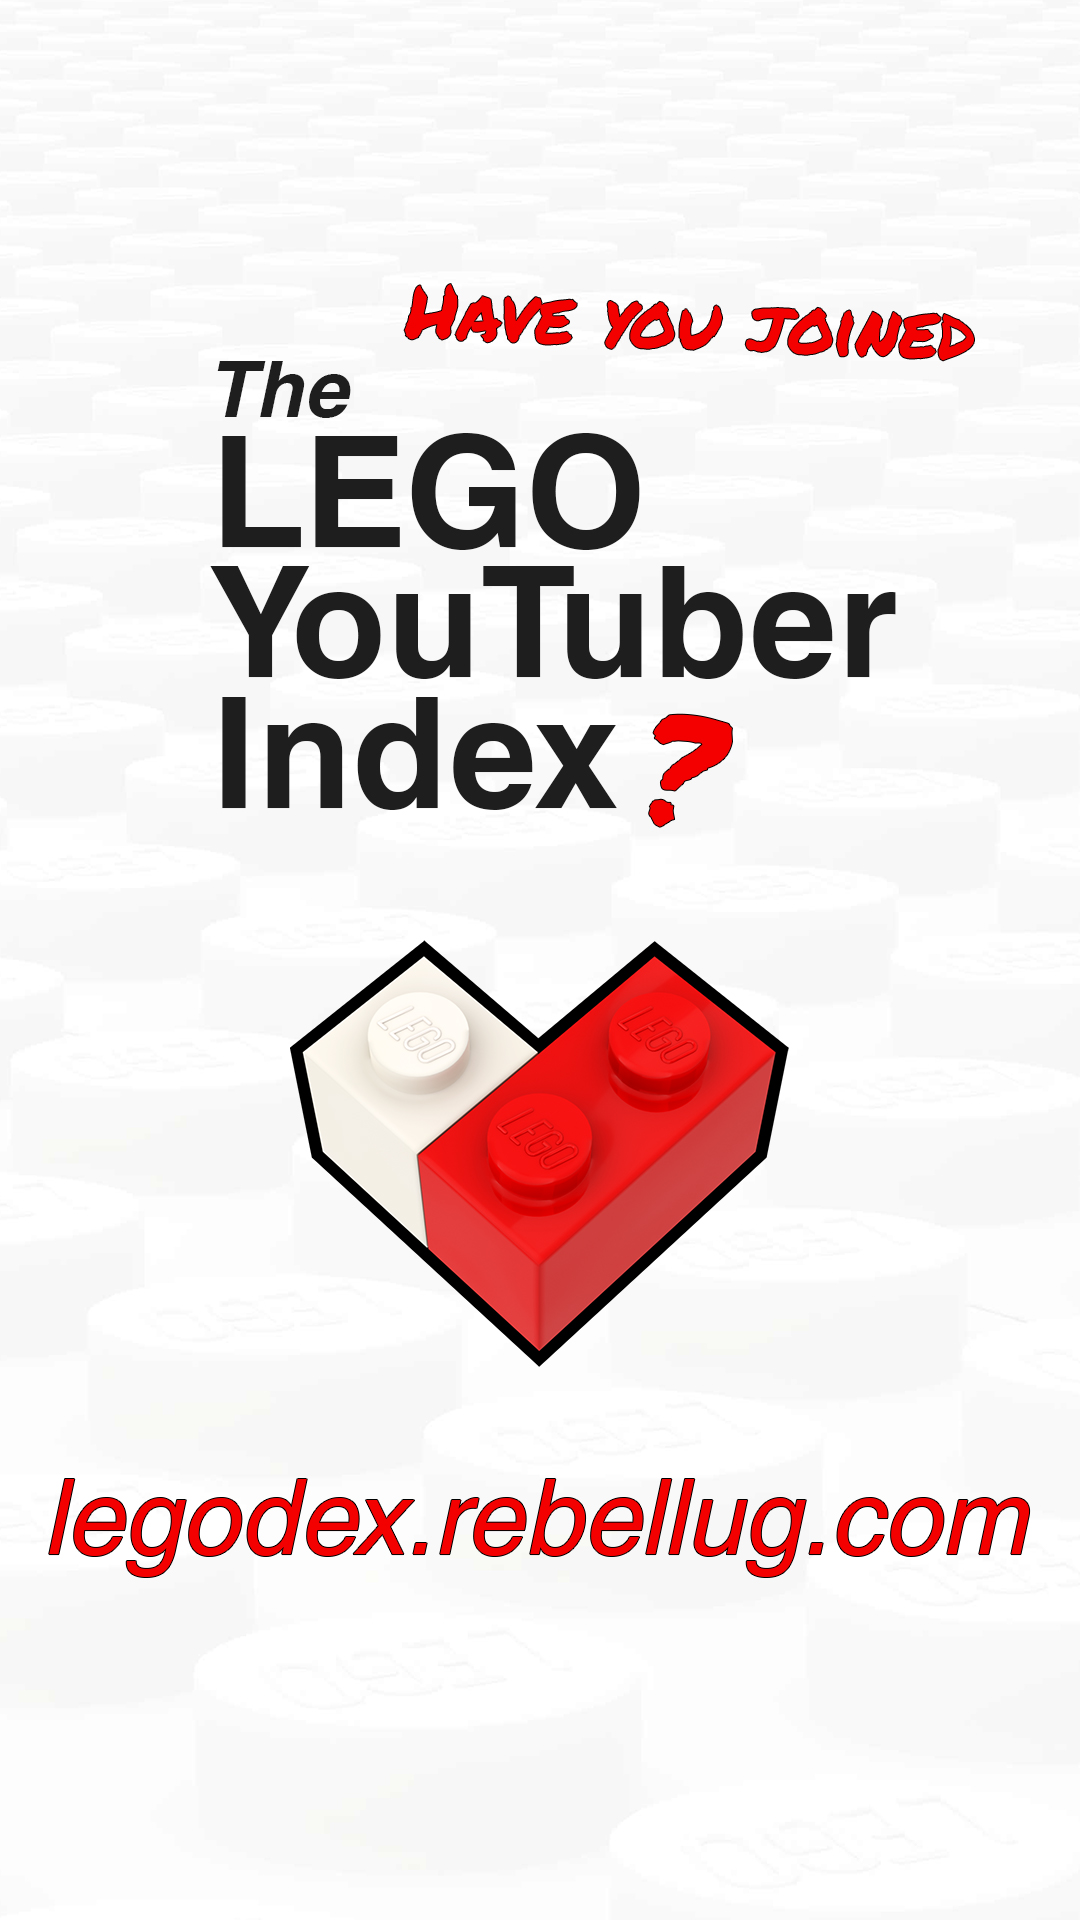
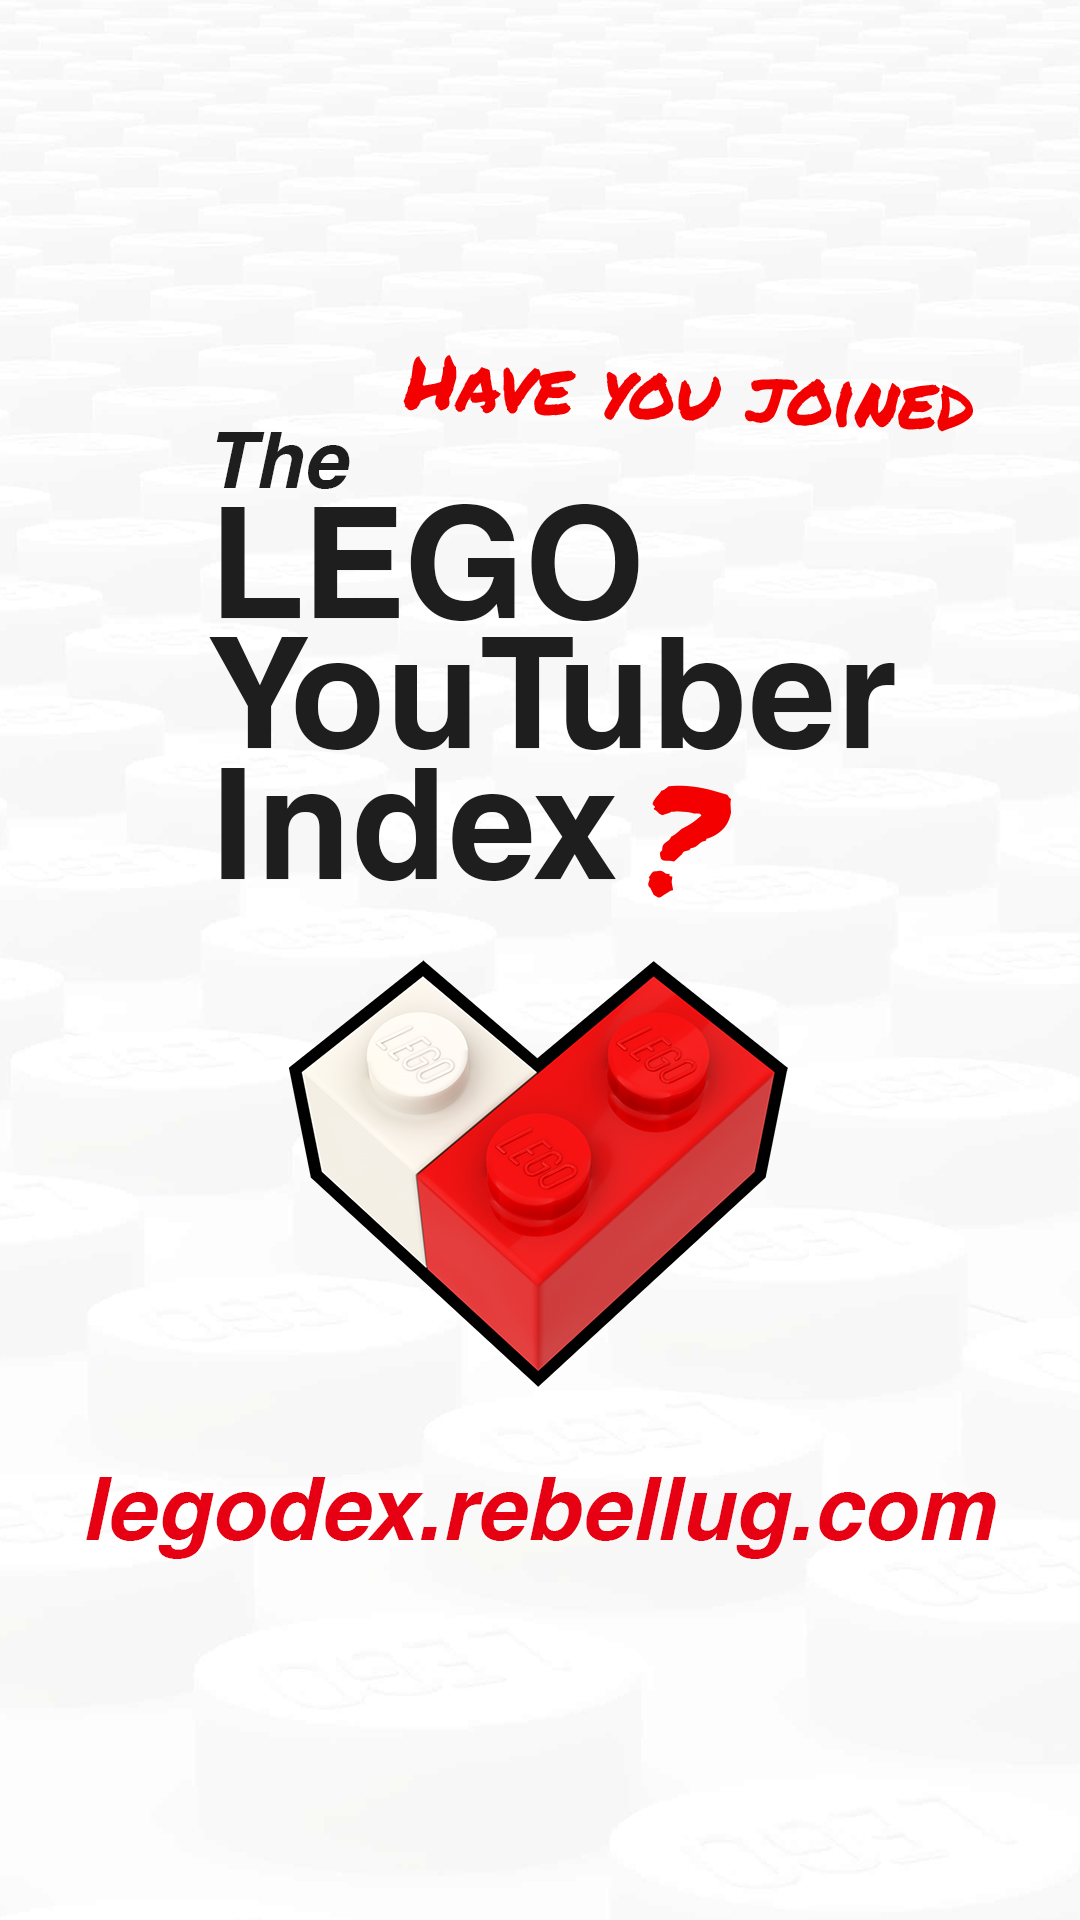
minor design changes

Changed region(s): [[0.1833, 0.1562, 0.9167, 0.7188], [0.0306, 0.75, 0.9778, 0.8438]]

diff --git a/index.php b/index.php
@@ -5,12 +5,12 @@
 ?>
 
 <body onload="XCloseEscapeKey()">
-<div class="container">
+<div class="container" style="margin-bottom: 5px; padding: 5px;">
     <div class="item" style="align-self: center;"><img src="assets/images/logo-low-res.png" style="height: 90px;" class="homepageLogo"></div>
-    <div class="item"><div><h1 style="text-align: left; font-size: .8em; font-weight: normal;"><i>The</i></h1><h1 style="text-align: left; margin-top: -3px; font-weight: bolder;">LEGO<br>YouTuber<br>Index</h1></div></div>
+    <div class="item"><div><h1 style="text-align: left; font-size: .8em; font-weight: normal;"><i>The</i></h1><h1 style="text-align: left; margin-top: -3px; font-weight: bolder; margin-bottom: 0;">LEGO<br>YouTuber<br>Index</h1></div></div>
 </div>
 
-<div class="container">
+<div class="container" style="margin-bottom: 5px;">
     <div class="container buttons">
     <button onclick="on()" style="margin: 0px 10px;">
         <h2>Add my channel</h2>
